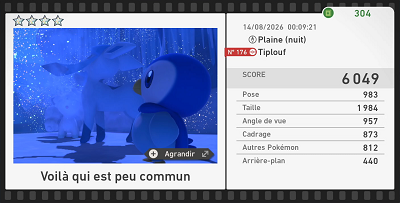
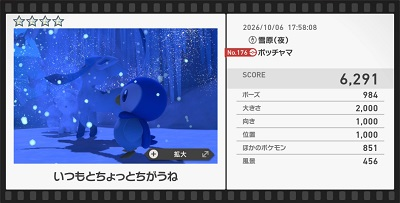
★4ポッチャマの動画追加ほか

diff --git a/src/data/pokemon/glaceon.ts b/src/data/pokemon/glaceon.ts
@@ -84,22 +84,32 @@ export default {
             pose: "変動(1000)",
             position: "首と胴の間",
             friend: ["ポッチャマ"],
-            others: "ロコン、モスノウ、デリバード",
+            others: "ロコン、モスノウ、デリバード、ウォーグル",
           },
           videos: [
+            {
+              name: "かける",
+              score: "5986",
+              url: "https://www.youtube.com/watch?v=VTDKUwSWSQ8",
+            },
             {
               name: "Quentin",
               score: "5706",
               url: "https://www.youtube.com/watch?v=Vd9RIZDuBUk",
             },
+            {
+              name: "だれか",
+              score: "",
+              url: "https://x.com/someone_kuro/status/2118044908359668192",
+            },
           ],
           steps: [
             { type: "text", content: "最初の雪原の右方、分岐後の木の上、洞窟の最初の方にいるモスノウにリンゴをぶつけると、最終エリアにモスノウが出現して他のポケモン点が加点。" },
             { type: "text", content: "分岐を選択したらターボ開始。ケケンカニでブレーキがかかったタイミングで、高所にいるグレイシアにオーブを当てる。（ケケンカニが通り過ぎた後に行うと安全）" },
-            { type: "text", content: "少し遅らせてから木を叩くケケンカニにオーブを当て、サーチで分岐イベントで出現させたら下キーで後ろを向き、ユキメノコの写真を撮影。これにより分岐イベントを保存するバグが発生。" },
-            { type: "text", content: "タマザラシにリンゴを当て、移動の邪魔になるユキノオーにもリンゴを当てて足止め。" },
+            { type: "text", content: "少し遅らせてから木を叩くケケンカニにオーブを当て、サーチで分岐イベントで出現させたら成立させない程度にゲージを進める。その後に下キーで後ろを向き、ユキメノコの写真を撮影。これにより分岐イベントを保存するバグが発生。" },
+            { type: "text", content: "タマザラシにリンゴを当てる。ポッチャマでブレーキをかけるか、ユキノオーにリンゴをぶつけて足止めするかは好み。" },
             { type: "text", content: "ゴール直前に分岐イベントを成立させ、同時に下キーで視点変更。これにより分岐成立後の位置調整がバグり、本来であれば進めない位置へ移動できる。タイミングが早いと左に寄ってしまうので注意。" },
-            { type: "text", content: "グレイシアがダイヤモンドダストを開始し、尻尾が上に真っ直ぐピンと立ったあたりで撮影するとポーズ1000点。" },
+            { type: "text", content: "グレイシアがダイヤモンドダストを開始し、尻尾が上に真っ直ぐピンと立った次のフレームで撮影するとポーズ1000点。★4ポッチャマとほぼ同じだが1フレーム後。" },
           ]
         },
         {

diff --git a/src/data/pokemon/piplup.ts b/src/data/pokemon/piplup.ts
@@ -104,9 +104,19 @@ export default {
             pose: "変動(1000)",
             position: "胴と首の間",
             friend: ["グレイシア"],
-            others: "ロコン、モスノウ、デリバード",
+            others: "ロコン、モスノウ、デリバード、ウォーグル",
           },
           videos: [
+            {
+              name: "かける",
+              score: "6298",
+              url: "https://www.youtube.com/watch?v=VTDKUwSWSQ8",
+            },
+            {
+              name: "だれか",
+              score: "6261",
+              url: "https://x.com/someone_kuro/status/2118044908359668192",
+            },
             {
               name: "Quentin",
               score: "6049",
@@ -116,8 +126,8 @@ export default {
           steps: [
             { type: "text", content: "最初の雪原の右方、分岐後の木の上、洞窟の最初の方にいるモスノウにリンゴをぶつけると、最終エリアにモスノウが出現して他のポケモン点が加点。" },
             { type: "text", content: "分岐を選択したらターボ開始。ケケンカニでブレーキがかかったタイミングで、高所にいるグレイシアにオーブを当てる。（ケケンカニが通り過ぎた後に行うと安全）" },
-            { type: "text", content: "少し遅らせてから木を叩くケケンカニにオーブを当て、サーチで分岐イベントで出現させたら下キーで後ろを向き、ユキメノコの写真を撮影。これにより分岐イベントを保存するバグが発生。" },
-            { type: "text", content: "タマザラシにリンゴを当て、移動の邪魔になるユキノオーにもリンゴを当てて足止め。" },
+            { type: "text", content: "少し遅らせてから木を叩くケケンカニにオーブを当て、サーチで分岐イベントで出現させたら成立させない程度にゲージを進める。その後に下キーで後ろを向き、ユキメノコの写真を撮影。これにより分岐イベントを保存するバグが発生。" },
+            { type: "text", content: "タマザラシにリンゴを当てる。ポッチャマでブレーキをかけるか、ユキノオーにリンゴをぶつけて足止めするかは好み。" },
             { type: "text", content: "ゴール直前に分岐イベントを成立させ、同時に下キーで視点変更。これにより分岐成立後の位置調整がバグり、本来であれば進めない位置へ移動できる。タイミングが早いと左に寄ってしまうので注意。" },
             { type: "text", content: "グレイシアがダイヤモンドダストを開始し、尻尾が上に真っ直ぐピンと立ったあたりで撮影するとポーズ1000点。" },          ]
         },

diff --git a/src/data/pokemon/heliolisk.ts b/src/data/pokemon/heliolisk.ts
@@ -15,7 +15,7 @@ export default {
             pose: "変動(1000)",
             position: "胴",
             friend: [""],
-            others: "スナヘビ、カバルドン",
+            others: "スナヘビ、カバルドン、ビビヨン、エレザード",
           },
           videos: [
             {
@@ -38,7 +38,7 @@ export default {
             pose: "変動(1000)",
             position: "胴",
             friend: [""],
-            others: "スナヘビ、カバルドン",
+            others: "スナヘビ、カバルドン、ビビヨン、エレザード",
           },
           videos: [
             {

diff --git a/src/data/pokemon/furret.ts b/src/data/pokemon/furret.ts
@@ -19,6 +19,11 @@ export default {
           },
           videos: [
             {
+              name: "だれか",
+              score: "5348",
+              url: "https://x.com/someone_kuro/status/2117182326098800887",
+            },
+            {
               name: "かける",
               score: "5339",
               url: "https://www.youtube.com/watch?v=c9PPkAlQqE0",

diff --git a/src/data/pokemon/pikachu.ts b/src/data/pokemon/pikachu.ts
@@ -5,7 +5,7 @@ export default {
     name: "ピカチュウ",
     en:"Pikachu",
     no,
-    groups: ["キャンプ", "ビーチ", "抜け道", ],
+    groups: ["キャンプ", "ビーチ", "海上", "抜け道", ],
     stars: {
       1: [
         {
